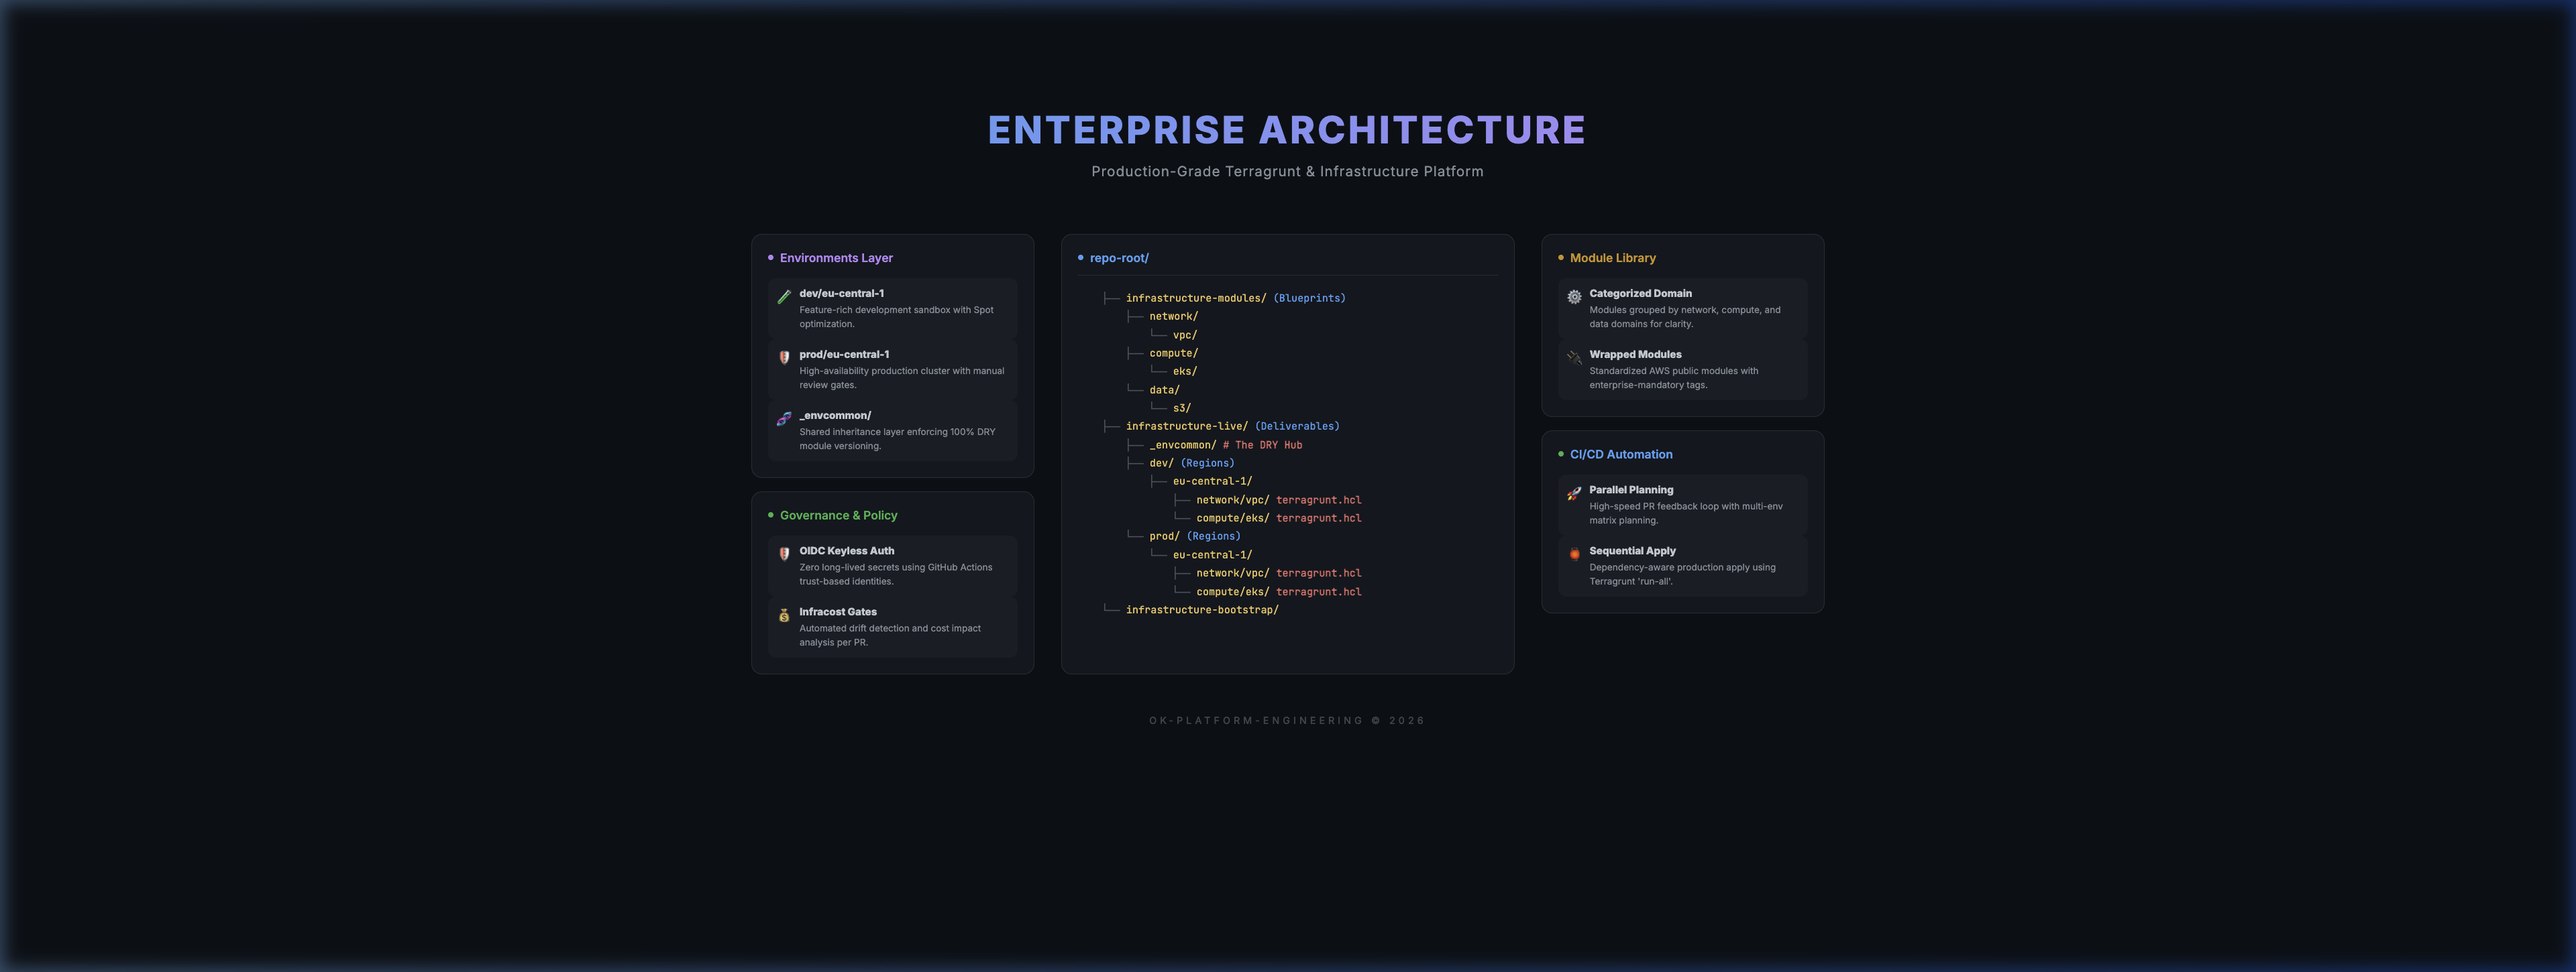
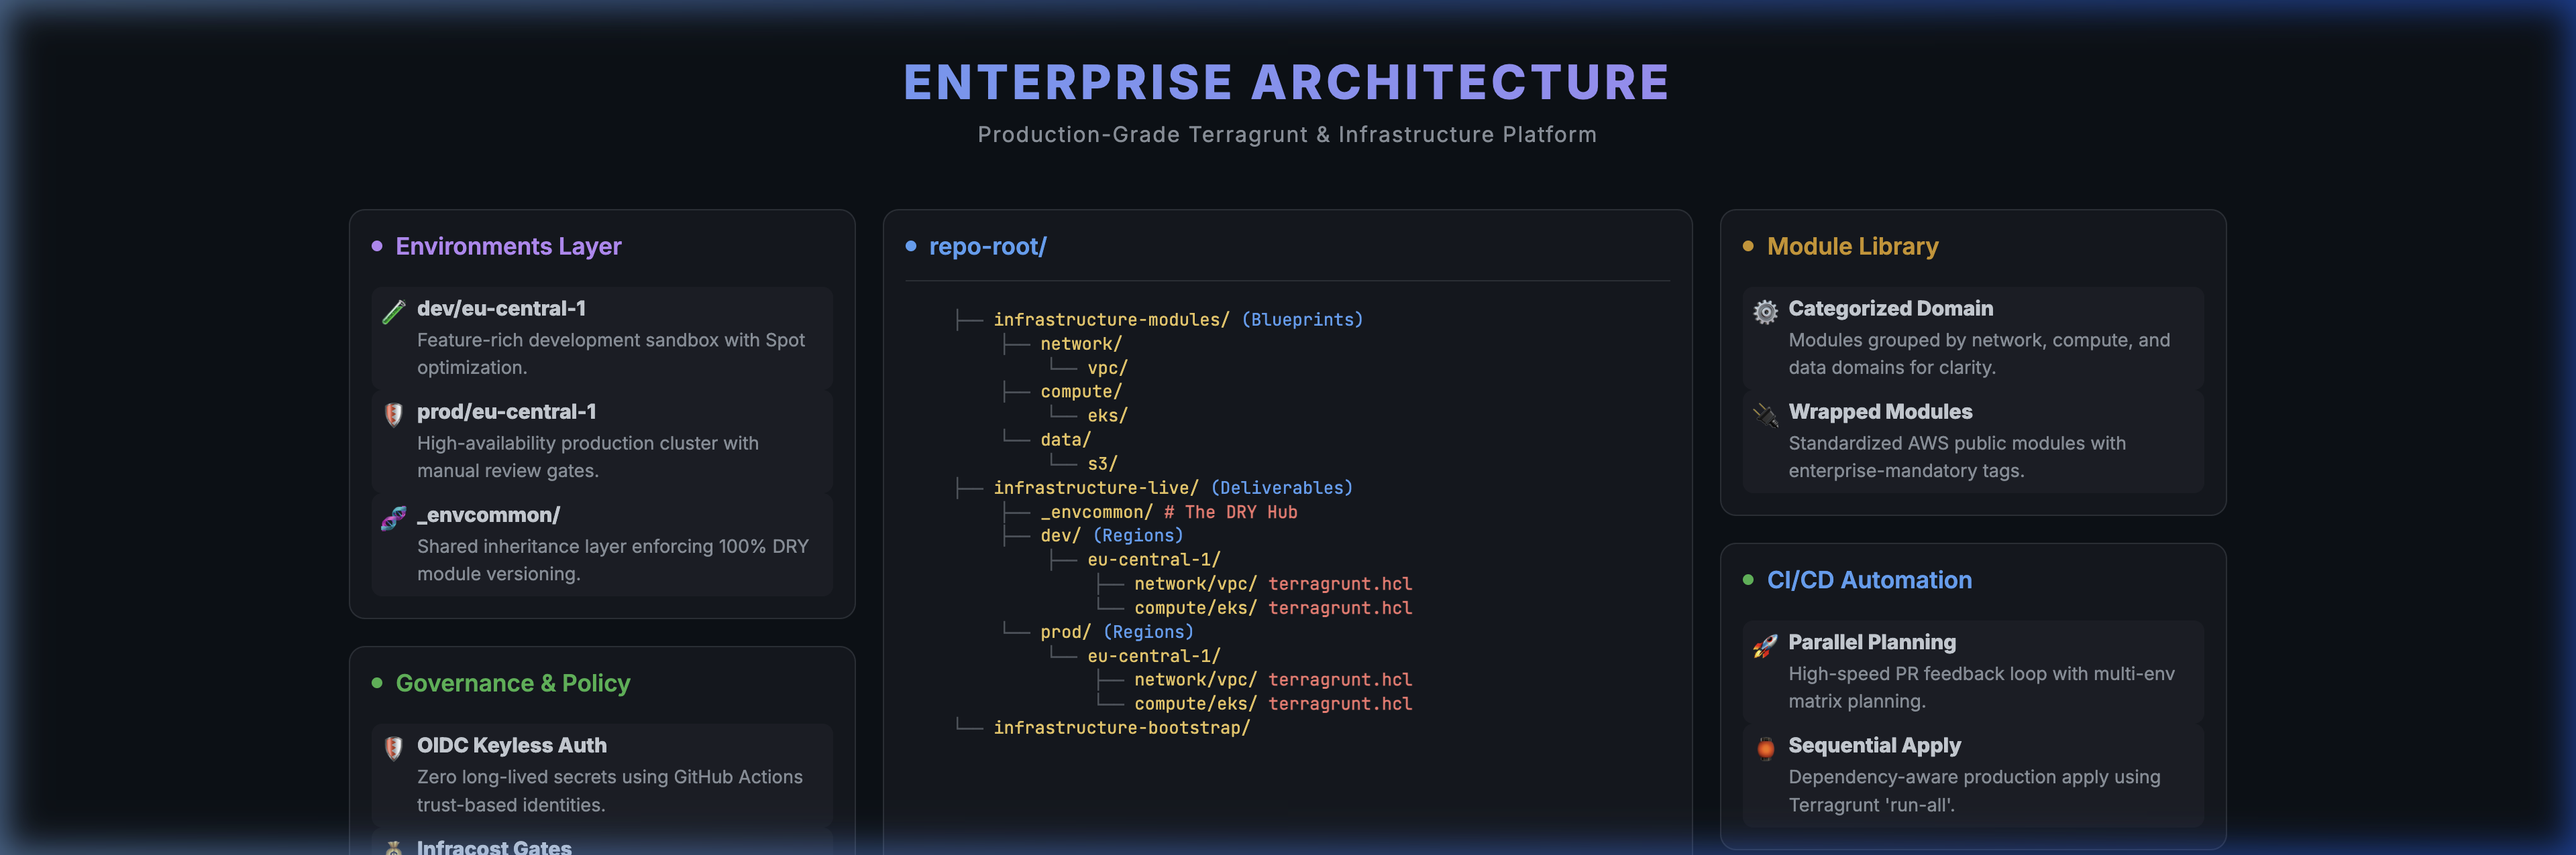
refactor: optimize visualizer UI layout and replace static architecture image with Mermaid diagram in README

diff --git a/.github/assets/visualizer.html b/.github/assets/visualizer.html
@@ -32,58 +32,58 @@
             padding: 0;
             display: flex;
             justify-content: center;
-            align-items: center;
+            align-items: flex-start; /* Start from top */
             min-height: 100vh;
             user-select: none;
             -webkit-user-select: none;
         }
 
         .master-wrapper {
-            padding: 80px;
+            padding: 20px 40px;
             background: #0d1117;
             width: 100%;
-            max-width: 1600px;
+            max-width: 1400px;
             display: flex;
             flex-direction: column;
-            justify-content: center;
+            justify-content: flex-start;
         }
 
         .header {
             text-align: center;
-            margin-bottom: 60px;
-            margin-top: 40px; /* Prevent title clipping */
+            margin-bottom: 30px;
+            margin-top: 20px;
         }
 
         .header h1 {
-            font-size: 3.5rem;
+            font-size: 2.2rem;
             font-weight: 800;
             margin: 0;
             background: linear-gradient(90deg, var(--accent-primary), var(--accent-secondary));
             -webkit-background-clip: text;
             -webkit-text-fill-color: transparent;
             text-transform: uppercase;
-            letter-spacing: 4px;
+            letter-spacing: 3px;
         }
 
         .header p {
             color: var(--text-secondary);
-            font-size: 1.3rem;
-            margin-top: 15px;
+            font-size: 1rem;
+            margin-top: 8px;
             letter-spacing: 1px;
         }
 
         .container {
             display: grid;
             grid-template-columns: 1fr 1.6fr 1fr;
-            gap: 40px;
+            gap: 20px;
             width: 100%;
         }
 
         .card {
             background: var(--card-bg);
             border: 1px solid var(--border-color);
-            border-radius: 16px;
-            padding: 24px;
+            border-radius: 12px;
+            padding: 16px;
         }
 
         .card h2 {
@@ -105,8 +105,8 @@
         /* Tree Styles */
         .tree {
             font-family: 'JetBrains Mono', monospace;
-            font-size: 0.95rem;
-            line-height: 1.8;
+            font-size: 0.8rem;
+            line-height: 1.4;
             color: var(--accent-primary);
         }
 
@@ -144,9 +144,9 @@
 
         .feature-item {
             display: flex;
-            gap: 12px;
-            padding: 12px;
-            border-radius: 12px;
+            gap: 8px;
+            padding: 6px;
+            border-radius: 8px;
             background: rgba(255,255,255,0.03);
             border: 1px solid transparent;
             transition: all 0.3s ease;
@@ -181,9 +181,9 @@
         .accent-pol { background-color: var(--accent-quaternary); }
 
         .footer-logo {
-            margin-top: 60px;
+            margin-top: 20px;
             opacity: 0.3;
-            font-size: 0.9rem;
+            font-size: 0.8rem;
             letter-spacing: 5px;
             text-align: center;
         }

diff --git a/README.md b/README.md
@@ -12,9 +12,41 @@ Selective AI assistance was used for accelerating documentation and validating C
 
 ---
 
-<p align="center">
-  <img src=".github/assets/enterprise-architecture-blueprint.png" width="900" alt="Enterprise Architecture Plan">
-</p>
+```mermaid
+graph TD
+    subgraph Environments ["🌍 Environments Layer"]
+        direction LR
+        DEV["🟢 dev/eu-central-1<br/>Spot Optimized Sandbox"]
+        PROD["🔴 prod/eu-central-1<br/>High-Availability Cluster"]
+        COMMON["🟣 _envcommon/<br/>100% DRY Shared Logic"]
+    end
+
+    subgraph RepoRoot ["📂 Repository Root (repo-root/)"]
+        direction TB
+        MOD["🏗 infrastructure-modules/<br/>(Blueprints)"]
+        LIVE["🚀 infrastructure-live/<br/>(Deliverables)"]
+        BOOT["🛠 infrastructure-bootstrap/"]
+        
+        LIVE --- L_TREE["(See Structure Below)"]
+    end
+
+    subgraph Governance ["⚖ Governance & Automation"]
+        direction LR
+        OIDC["🛡 OIDC Keyless Auth<br/>Zero-Secret Security"]
+        COST["💰 Infracost Gates<br/>Cost Visibility"]
+        CICD["🚀 Parallel CI/CD<br/>High-Speed Feedback"]
+    end
+
+    Environments --- RepoRoot
+    RepoRoot --- Governance
+
+    style DEV fill:#1a1a1a,stroke:#2ea043,stroke-width:2px
+    style PROD fill:#1a1a1a,stroke:#f85149,stroke-width:2px
+    style COMMON fill:#1a1a1a,stroke:#a371f7,stroke-width:2px
+    style MOD fill:#0d1117,stroke:#58a6ff,stroke-width:2px
+    style LIVE fill:#0d1117,stroke:#58a6ff,stroke-width:2px
+    style BOOT fill:#0d1117,stroke:#58a6ff,stroke-width:2px
+```
 
 ---
 
@@ -26,18 +58,23 @@ This platform follows a **Hierarchical Blueprint Pattern** using Terragrunt. It 
 
 ```text
 .
-├── .github/workflows/          # 🛡 5-Stage Multi-Environment Pipeline
-├── infrastructure-modules/      # 📦 The Blueprint Library (Reusable)
-│   ├── network/                # VPC, Transit Gateway, Private Links
-│   ├── compute/                # EKS, Lambda, Auto-scaling
-│   └── data/                   # RDS, S3, OpenSearch
-├── infrastructure-live/         # 🚀 The Deployment Hub (Stateful)
-│   ├── _envcommon/             # 🧬 DRY inheritance layer (Centralized versions)
-│   ├── dev/                    # Development Environment (Low cost, high speed)
-│   │   ├── env.hcl             # Env-specific overrides (Spot instances, logging)
-│   │   └── eu-central-1/        # AWS Region (Frankfurt)
-│   └── prod/                   # Production Environment (High availability)
-└── infrastructure-bootstrap/   # 🗝 Entry-point (OIDC & Remote State Hub)
+├── infrastructure-modules/      # 📦 Blueprint Library (Reusable Terraform)
+│   ├── network/vpc/            # - Standardized VPC & Subnets
+│   ├── compute/eks/            # - Production-Grade EKS
+│   └── data/s3/                # - Durable Object Storage
+│
+├── infrastructure-live/         # 🚀 Deployment Hub (Environment Config)
+│   ├── _envcommon/             # 🧬 Centralized DRY inheritance layer
+│   ├── dev/ (Regions)          # Sandbox Environment
+│   │   └── eu-central-1/
+│   │       ├── network/vpc/    #   - terragrunt.hcl
+│   │       └── compute/eks/    #   - terragrunt.hcl
+│   └── prod/ (Regions)         # Production Environment
+│       └── eu-central-1/
+│           ├── network/vpc/    #   - terragrunt.hcl
+│           └── compute/eks/    #   - terragrunt.hcl
+│
+└── infrastructure-bootstrap/   # 🗝 Foundation (OIDC & Remote State Hub)
 ```
 
 ---
